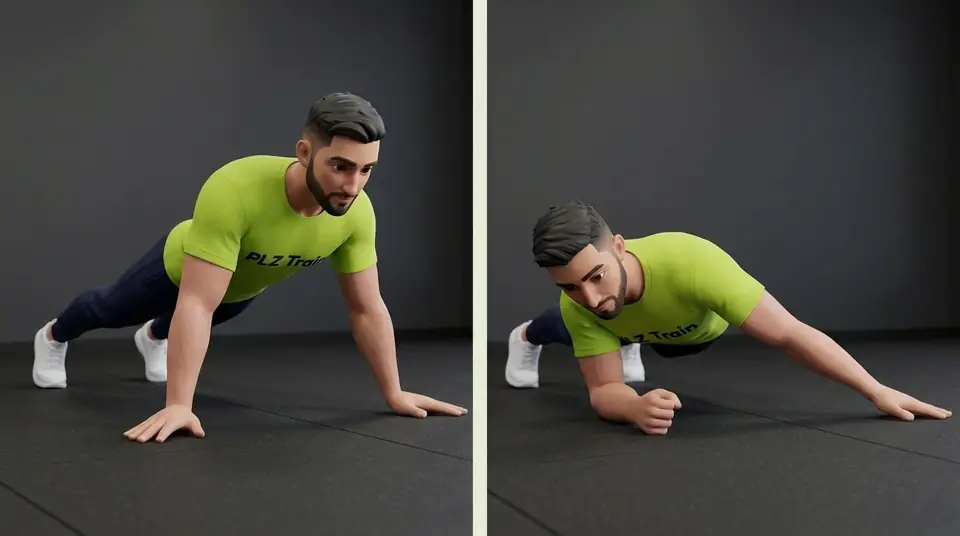
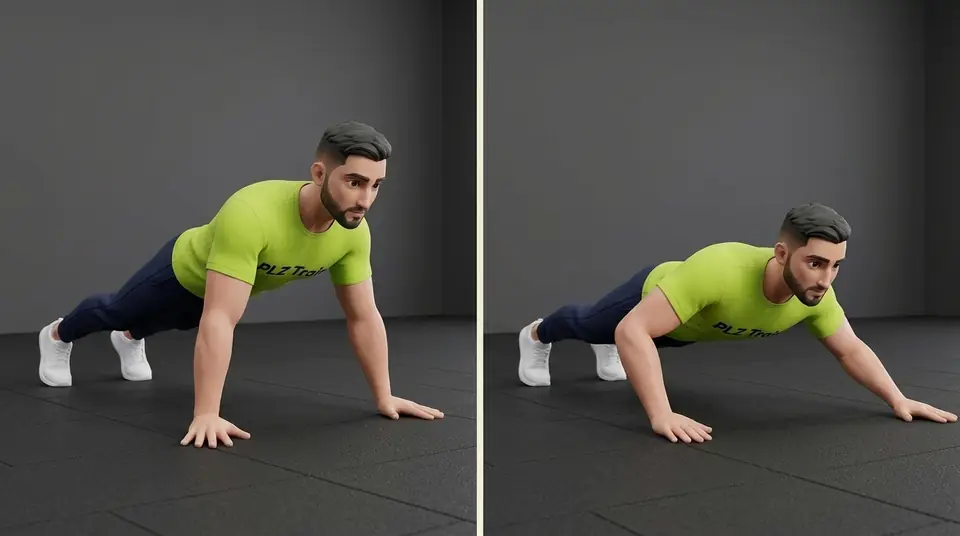
fix: calisthenics pictures - 15 wrong shapes regenerated after a full-size review, hollow rock and manna shown without a picture (P2-18 step 7)

diff --git a/index.html b/index.html
@@ -9151,7 +9151,6 @@
       'cx_hollow_hold',
       'cx_lying_leg_raise',
       'cx_v_up',
-      'cx_hollow_rock',
       'cx_support_knee_raise',
       'cx_support_leg_raise',
       'cx_hanging_lsit',
@@ -9232,7 +9231,6 @@
       'cx_active_pike',
       'cx_shoulder_ext',
       'cx_pancake',
-      'cx_manna',
       'cx_shoulder_dislocate',
       'cx_adv_tuck_planche'
     ];

diff --git a/docs/PROGRESS_LOG.md b/docs/PROGRESS_LOG.md
@@ -6,7 +6,7 @@ Newest first. Product direction: [MASTER_PLAN.md](MASTER_PLAN.md). Governance: [
 
 - Owner: "start making the photos... focus more on the progressions". 139 start/end (or entry/hold) pictures made in Google Flow (image mode, Nano Banana 2.1, 16:9, x2, PLZ Train character as reference, 0 credits), each take checked for form; prompts docs/research/cali-picture-prompts.tsv, picks docs/research/cali-picture-picks.txt. Every built-in exercise (239) now has a picture and a list thumbnail.
 - Owner caught wrong shapes (upside-down deadlift take, back lever arms). Back-lever family regenerated after studying THENX FZZqbeZti84 frames: arms angled back to the hips, face down.
-- Weak, redo candidates: manna (high V-sit, not full manna), straddle planche and advanced tuck planche (shape not exact), side plank raise (no visible change), hollow rock, negative muscle-up, dip bottoms a little shallow.
+- Owner review + full-size check of all 139: 17 regenerated with sharper prompts (flag negative, tuck/straddle back lever, advanced tuck/straddle/tuck planche, archer push-up, archer row, feet-up row, scapula pull-up and push-up, side plank raise, freestanding HSPU, front-lever negative, negative muscle-up). Hollow rock and manna kept wrong shapes after 3 tries: no picture for them (how-to text only). Left: dip bottoms a little shallow.
 
 ## 2026-11-06 — Calisthenics coach audit applied (P2-18), in progress
 
